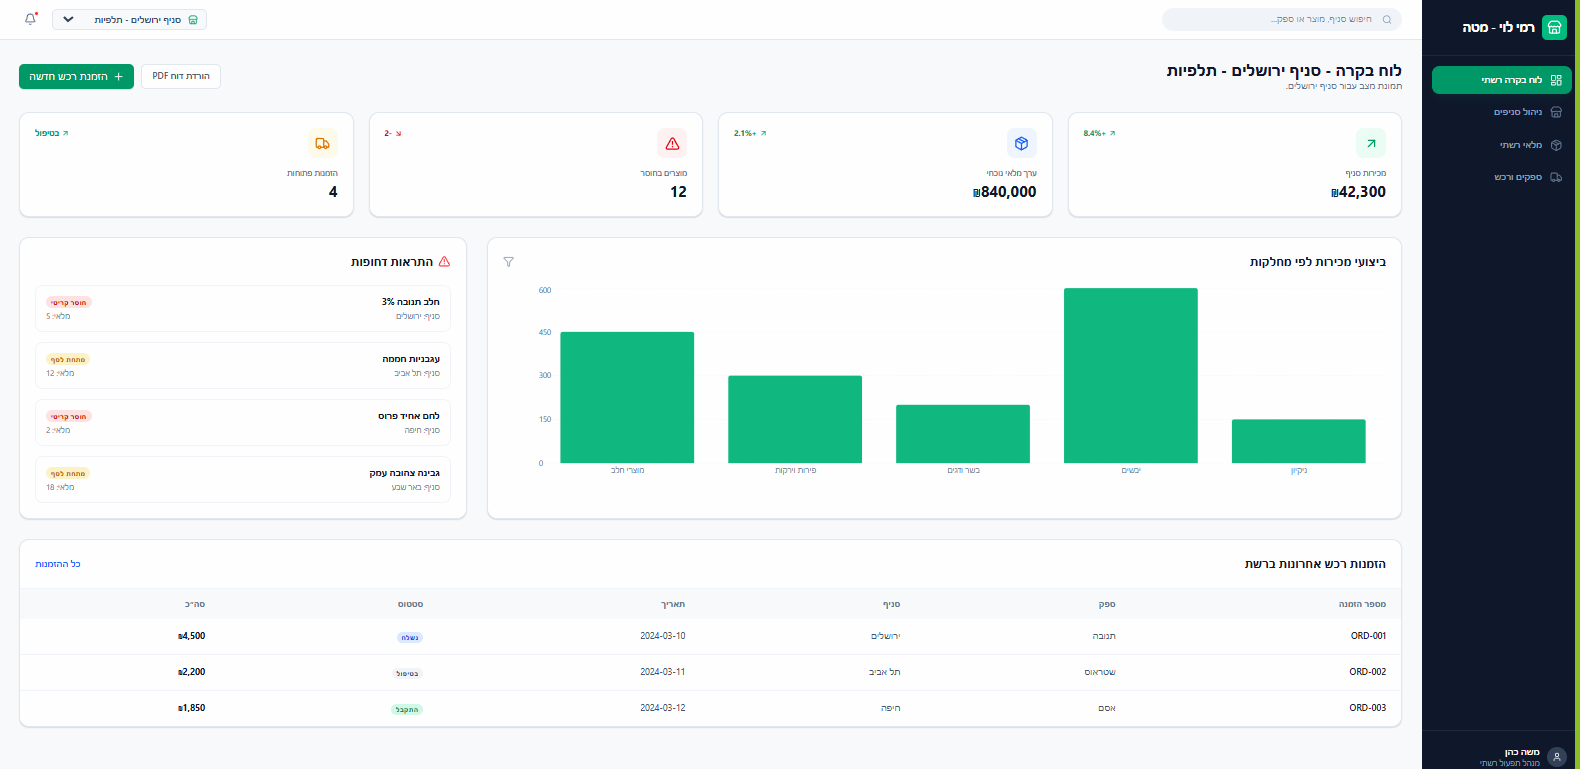
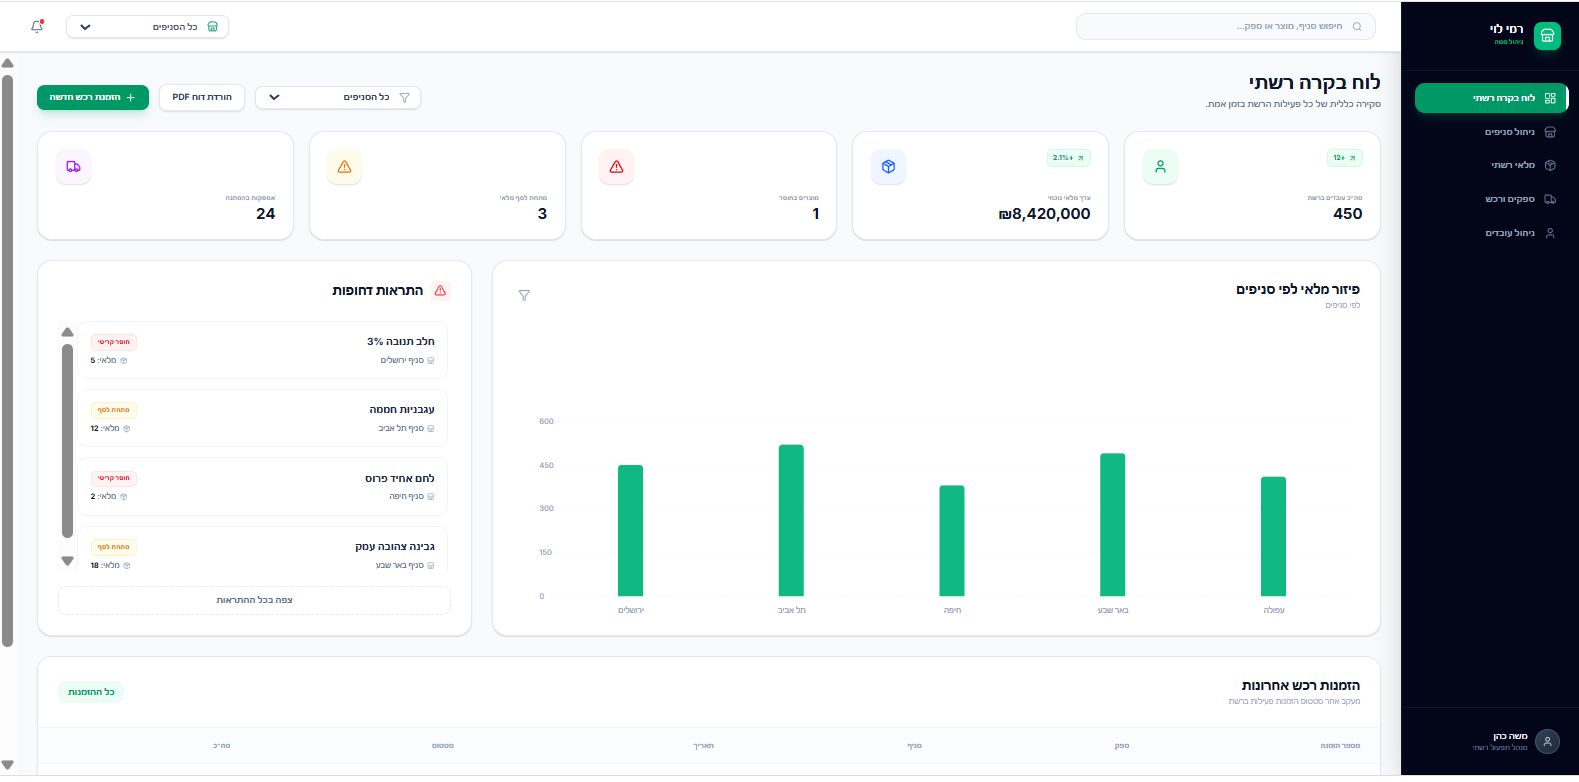
תיקון רדמי

diff --git a/README.md b/README.md
@@ -13,10 +13,18 @@
 
 ---
 
-## 🖼 ממשק המערכת (UI/UX)
+## 🖼 ממשק המערכת 
 *ממשק המשתמש אופיין ועוצב ב-Google AI Studio כדי לדמות מערכת ניהול מודרנית.*
-
-![ממשק ניהול סניפים - רמי לוי](images/image1.png)
+לוח בקרה רשתי:
+![לוח בקרה רשתי](images/image1.png)
+ניהול סניפים:
+![ניהול סניפים](images/image2.png)
+מלאי רשתי:
+![מלאי רשתי](images/image3.png)
+ספקים ורכש:
+![ספקים ורכש](images/image4.png)
+ניהול עובדים:
+![ניהול עובדים](images/image5.png)
 
 ---
 
@@ -30,6 +38,6 @@
 ---
 
 ## 🛠 טכנולוגיות בשימוש
-* **בסיס נתונים:** PostgreSQL (שאילתות SQL, פרוצדורות PL/pgSQL וטריגרים).
+* **בסיס נתונים:** PostgreSQL.
 * **מידול:** ERDPlus.
 * **אפיון ממשק:** Google AI Studio (Gemini).
